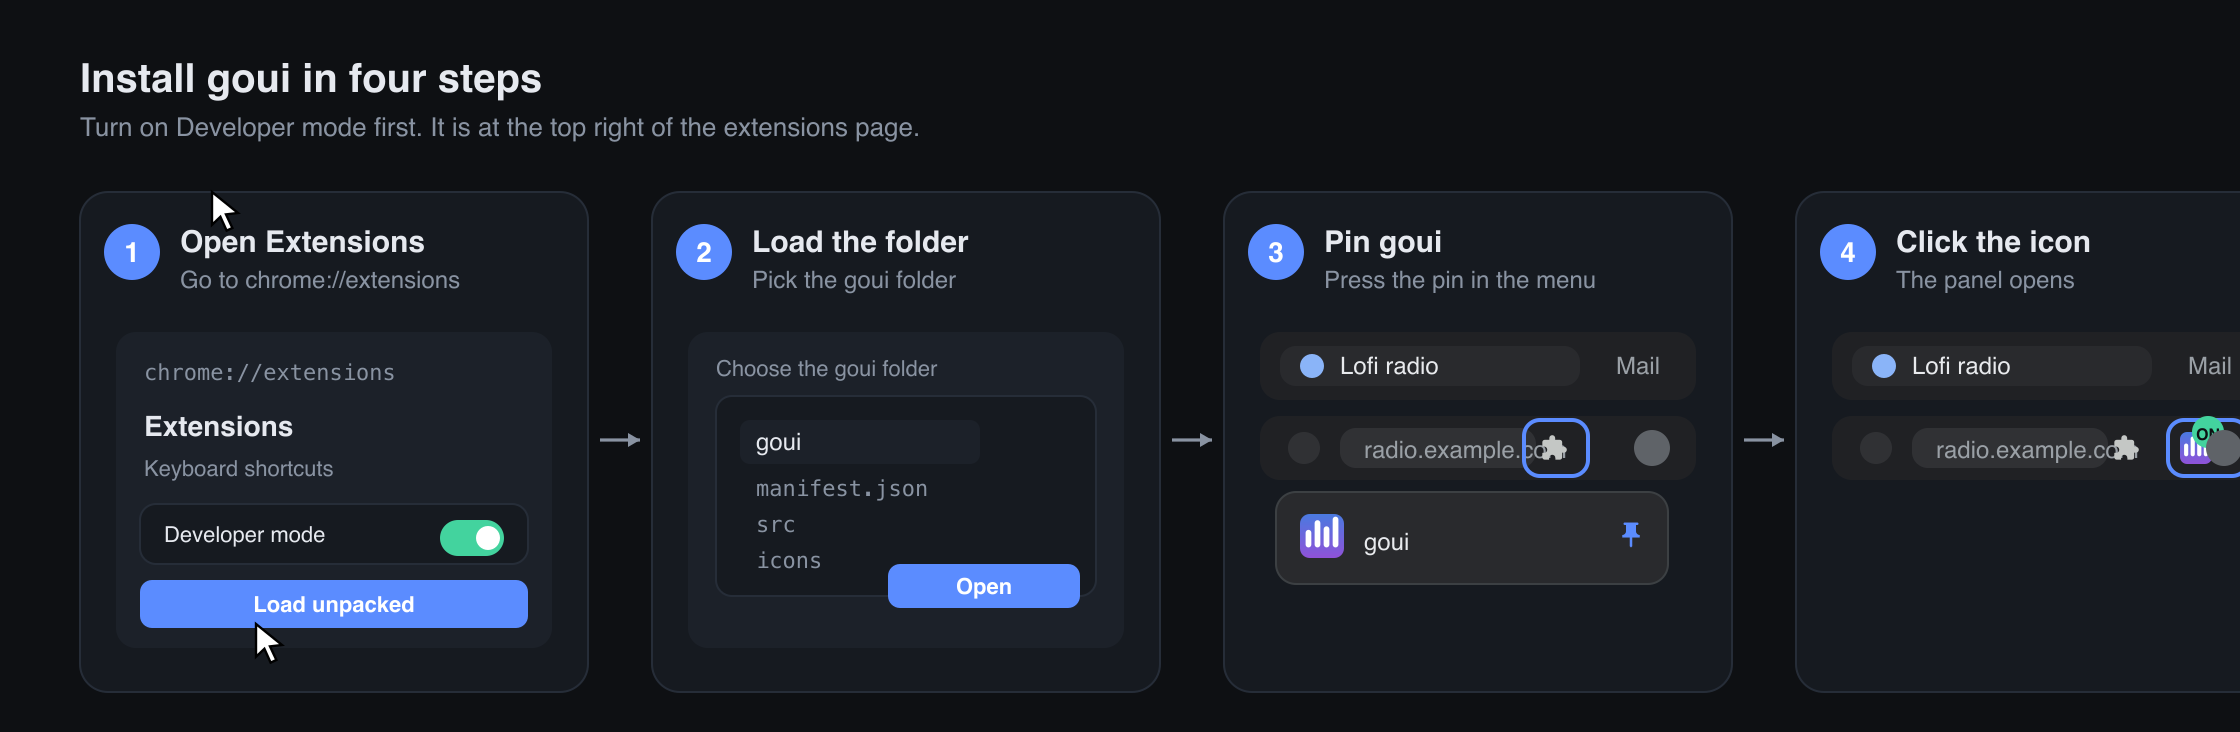
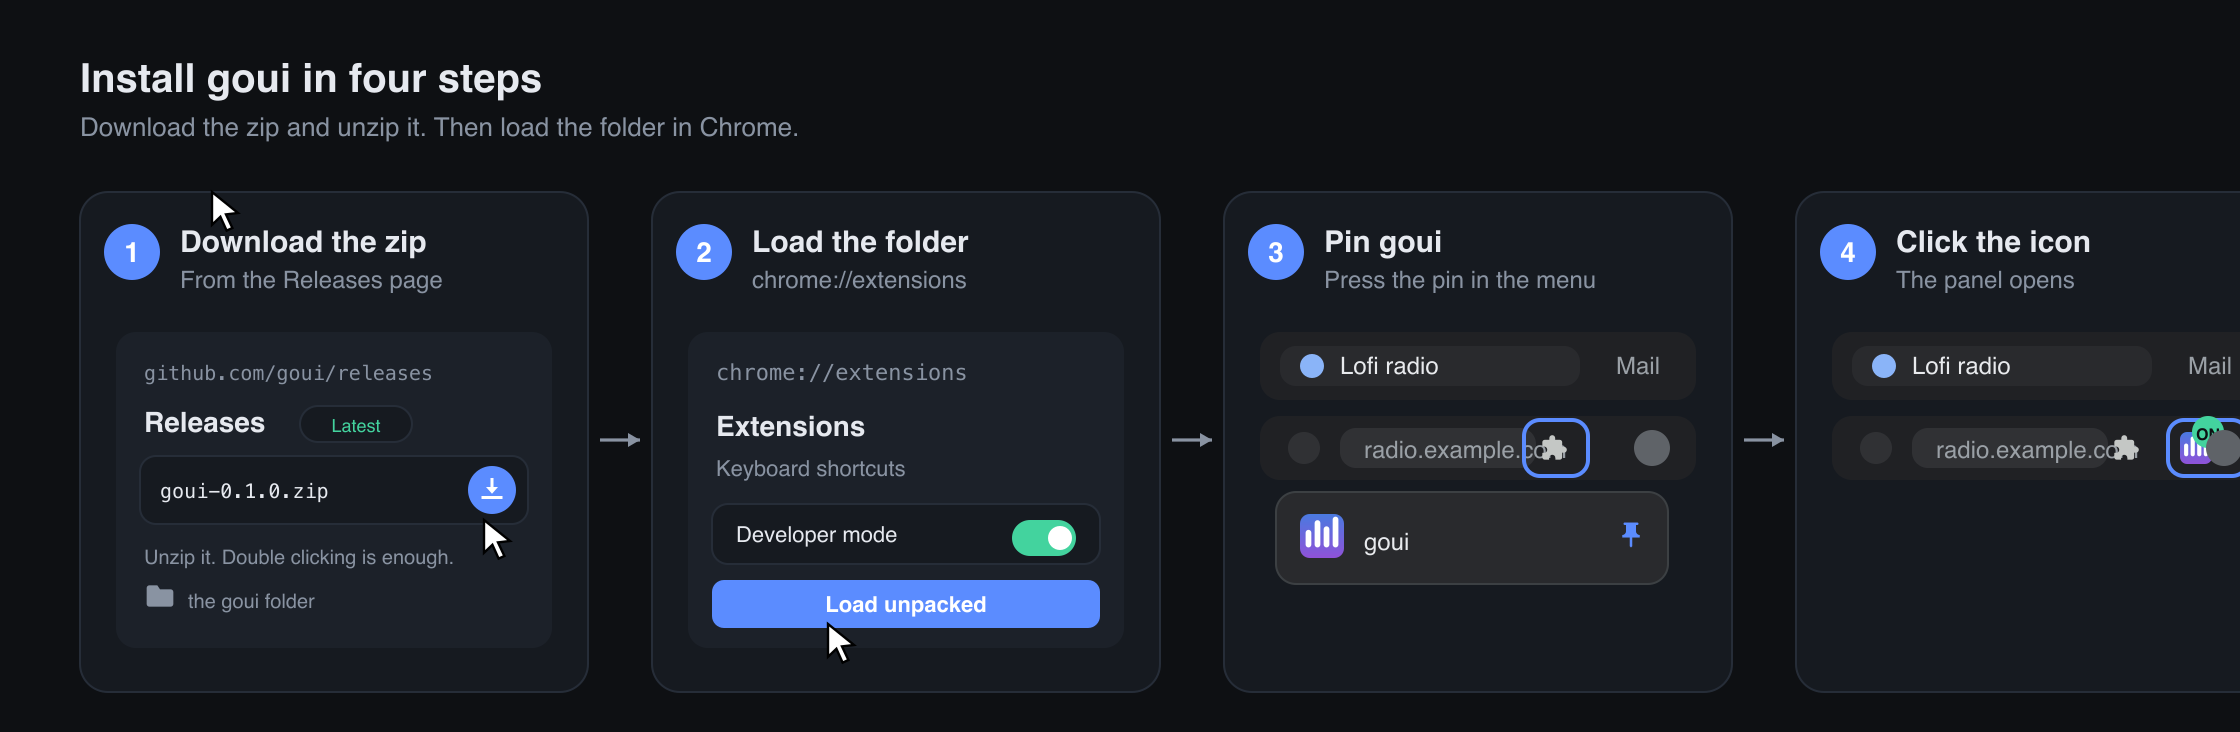
Add the licence, the notices, and a release zip anyone can install
goui is under the MIT licence, held by M Wyndham Haryata Permana. THIRD_PARTY_NOTICES.md names the
two projects goui stands on, and holds the AutoEQ MIT licence text in full. AutoEQ by Jaakko Pasanen
gives the headphone profiles and the search index. EQByEar gives the ear test.

scripts/make-extension-zip.mjs builds the zip the Releases page offers. The zip holds one goui folder
with manifest.json at its top, so a person who unzips it gets a folder to point Chrome at. The licence
and the notices travel inside the zip, as the MIT licence asks. npm run zip builds it, and dist/ stays
out of git.

The README now leads with the download. A new first step and picture cover the Releases page and the
unzip, and the four-step flow picture starts there. The git clone route moved down to Develop, where
it belongs. A note covers the Chrome warning about developer mode extensions.

diff --git a/eslint.config.js b/eslint.config.js
@@ -5,8 +5,8 @@ import sonarjs from "eslint-plugin-sonarjs";
 import unicorn from "eslint-plugin-unicorn";
 
 export default [
-  // design/ holds throwaway HTML mocks that never ship in the extension.
-  { ignores: ["design/**", "node_modules/**", "playwright-report/**", "test-results/**"] },
+  // design/ holds throwaway HTML mocks, and dist/ holds the built release zip.
+  { ignores: ["design/**", "dist/**", "node_modules/**", "playwright-report/**", "test-results/**"] },
   {
     files: ["**/*.{js,mjs}"],
     plugins: { jsdoc, sonarjs, unicorn },

diff --git a/README.md b/README.md
@@ -20,23 +20,23 @@ clips.
 
 ## Install
 
-Chrome loads an unpacked extension from a folder on your computer. The first job is to get the
-folder. Then you point Chrome at it.
+goui is not in the Chrome Web Store. You add it by hand one time, in about two minutes. You download
+a zip, unzip it, then point Chrome at the folder.
 
-![Install goui in four steps: open Extensions, load the folder, pin goui, click the icon.](docs/images/install-flow.png)
+![Install goui in four steps: download the zip, load the folder, pin goui, click the icon.](docs/images/install-flow.png)
 
-### 1. Get the folder
+### 1. Download the zip
 
-Press **Code** on this page, then **Download ZIP**, and unzip the file. Or clone the repo if you
-have git:
+![The Releases page, with the zip and a Download button.](docs/images/install-download.png)
 
-```bash
-git clone https://github.com/wyndhamharyata/goui.git
-```
+Open the [Releases page](https://github.com/wyndhamharyata/goui/releases/latest). Under the newest
+release, press the file named **goui-0.1.0.zip**. Unzip it after the download. Double clicking the
+file is enough.
 
-Keep the folder where it is after this step. Chrome reads it from there on every start.
+Keep the unzipped folder where it is. Chrome reads it from there on every start, so a move or a
+delete turns goui off.
 
-### 2. Load the folder
+### 2. Load the folder in Chrome
 
 ![The extensions page with Developer mode on and its Load unpacked button.](docs/images/install-load-unpacked.png)
 
@@ -45,7 +45,8 @@ at the top right. Press **Load unpacked**.
 
 ![Pick the folder that holds manifest.json.](docs/images/install-pick-folder.png)
 
-Pick the goui folder itself, the one that holds `manifest.json`. A file inside it will not load.
+The button asks for a folder. Pick the goui folder, the one that holds `manifest.json`. A file
+inside it will not load.
 
 ### 3. Pin goui
 
@@ -139,28 +140,54 @@ wants, and goui keeps the two apart.
 3. Copy the result, return to goui, and **Paste** it into the My ear section.
 4. Press **Save** to keep it, then turn the ear layer on to hear the headphone plus your ear.
 
-## Develop
+## Notes
 
-| Command          | What it does                                                            |
-| ---------------- | ----------------------------------------------------------------------- |
-| `npm run lint`   | ESLint, then the word check.                                            |
-| `npm test`       | The browser journeys. Run `npx playwright install chromium` once first. |
-| `npm run icons`  | Rebuild the icon files.                                                 |
-| `npm run images` | Rebuild the pictures in `docs/images`.                                  |
+- Chrome warns about developer mode extensions on some starts. Choose the option that keeps them. The
+  warning is Chrome's own, and it does not mean goui is broken.
+- The Web Audio shelf filters take no Q. An AutoEQ shelf keeps its corner frequency and gain and
+  drops its Q. The inspector says so on a shelf.
+- The AutoEQ search reads the public index on GitHub. The result is kept for a week, so a second
+  search is fast.
+- The extension can only change audio inside the browser. For system audio, use a tool such as
+  SoundSource.
+
+## Credits
+
+goui stands on other people's work. `THIRD_PARTY_NOTICES.md` holds the full notices.
+
+- **AutoEQ** by Jaakko Pasanen. The headphone profiles and the search index come from AutoEQ. It is
+  under the MIT licence.
+- **EQByEar** at [eqbyear.com](https://eqbyear.com). The ear test, which goui opens in a new tab.
+- goui itself is under the MIT licence. See `LICENSE`.
+
+## Develop
 
 There is no build step. The extension is plain JavaScript, so a change to a file is live after you
 press the reload button on the extensions page.
 
+Clone the repo if you want to change the code:
+
+```bash
+git clone https://github.com/wyndhamharyata/goui.git
+cd goui
+npm install
+npx playwright install chromium
+```
+
+| Command          | What it does                                              |
+| ---------------- | --------------------------------------------------------- |
+| `npm run lint`   | ESLint, then the word check.                              |
+| `npm test`       | The browser journeys.                                     |
+| `npm run icons`  | Rebuild the icon files.                                   |
+| `npm run images` | Rebuild the pictures in `docs/images`.                    |
+| `npm run zip`    | Build `dist/goui-<version>.zip`, the file a release uses. |
+
 The pictures in `docs/images` are drawn by `scripts/make-readme-images.mjs`. Each one is written as an
 SVG and as a PNG. Edit the SVG by hand, or edit the script and run `npm run images`.
 
-## Notes
+The release zip is built by `scripts/make-extension-zip.mjs`. It holds the `manifest.json`, the
+`src` folder and the `icons` folder, all inside one `goui` folder. A person who unzips it gets a
+folder to point Chrome at.
 
-- The Web Audio shelf filters take no Q. An AutoEQ shelf keeps its corner frequency and gain and
-  drops its Q. The inspector says so on a shelf.
-- The tests open the panel as a normal tab. They fire the icon's own click event in the service
-  worker, since Playwright cannot press the toolbar icon. A launch flag lets that click capture.
-- The extension can only change audio inside the browser. For system audio, use a tool such as
-  SoundSource.
-- The AutoEQ search reads the public index on GitHub. The result is kept for a week, so a second
-  search is fast.
+The tests open the panel as a normal tab. They fire the icon's own click event in the service
+worker, since Playwright cannot press the toolbar icon. A launch flag lets that click capture.

diff --git a/THIRD_PARTY_NOTICES.md b/THIRD_PARTY_NOTICES.md
@@ -1,0 +1,44 @@
+# Third party notices
+
+goui stands on other people's work. This file names each part and its licence.
+
+## AutoEQ
+
+The headphone profiles and the search index come from AutoEQ, by Jaakko Pasanen. goui reads the
+published files over the network. It does not copy AutoEQ code.
+
+- Project: https://github.com/jaakkopasanen/AutoEQ
+- Licence: MIT
+
+```
+MIT License
+
+Copyright (c) 2018-2022 Jaakko Pasanen
+
+Permission is hereby granted, free of charge, to any person obtaining a copy
+of this software and associated documentation files (the "Software"), to deal
+in the Software without restriction, including without limitation the rights
+to use, copy, modify, merge, publish, distribute, sublicense, and/or sell
+copies of the Software, and to permit persons to whom the Software is
+furnished to do so, subject to the following conditions:
+
+The above copyright notice and this permission notice shall be included in all
+copies or substantial portions of the Software.
+
+THE SOFTWARE IS PROVIDED "AS IS", WITHOUT WARRANTY OF ANY KIND, EXPRESS OR
+IMPLIED, INCLUDING BUT NOT LIMITED TO THE WARRANTIES OF MERCHANTABILITY,
+FITNESS FOR A PARTICULAR PURPOSE AND NONINFRINGEMENT. IN NO EVENT SHALL THE
+AUTHORS OR COPYRIGHT HOLDERS BE LIABLE FOR ANY CLAIM, DAMAGES OR OTHER
+LIABILITY, WHETHER IN AN ACTION OF CONTRACT, TORT OR OTHERWISE, ARISING FROM,
+OUT OF OR IN CONNECTION WITH THE SOFTWARE OR THE USE OR OTHER DEALINGS IN THE
+SOFTWARE.
+```
+
+## EQByEar
+
+The ear test is EQByEar, at https://eqbyear.com. goui opens the site in a new tab. You paste the
+result back by hand. The site is a service of its own authors, and its code is not part of goui.
+
+## goui
+
+goui itself is under the MIT licence. See `LICENSE`.
